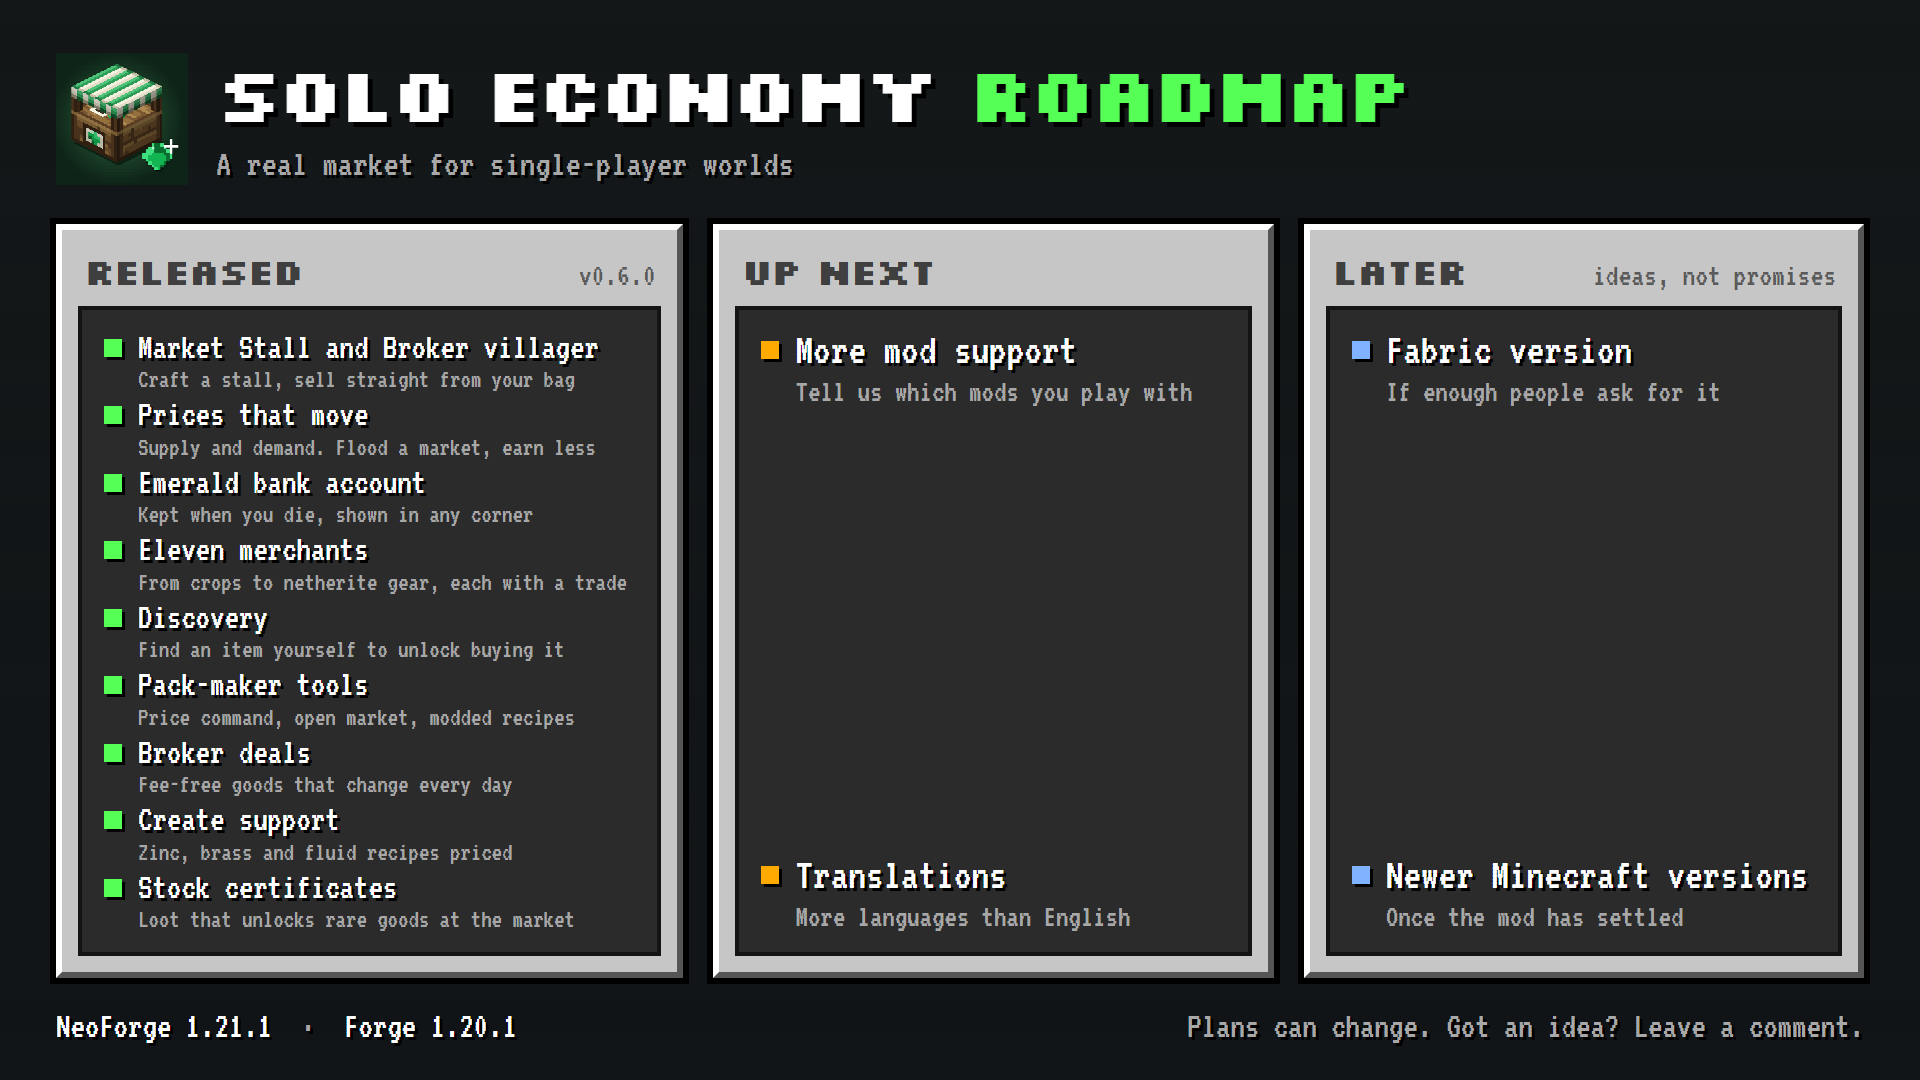
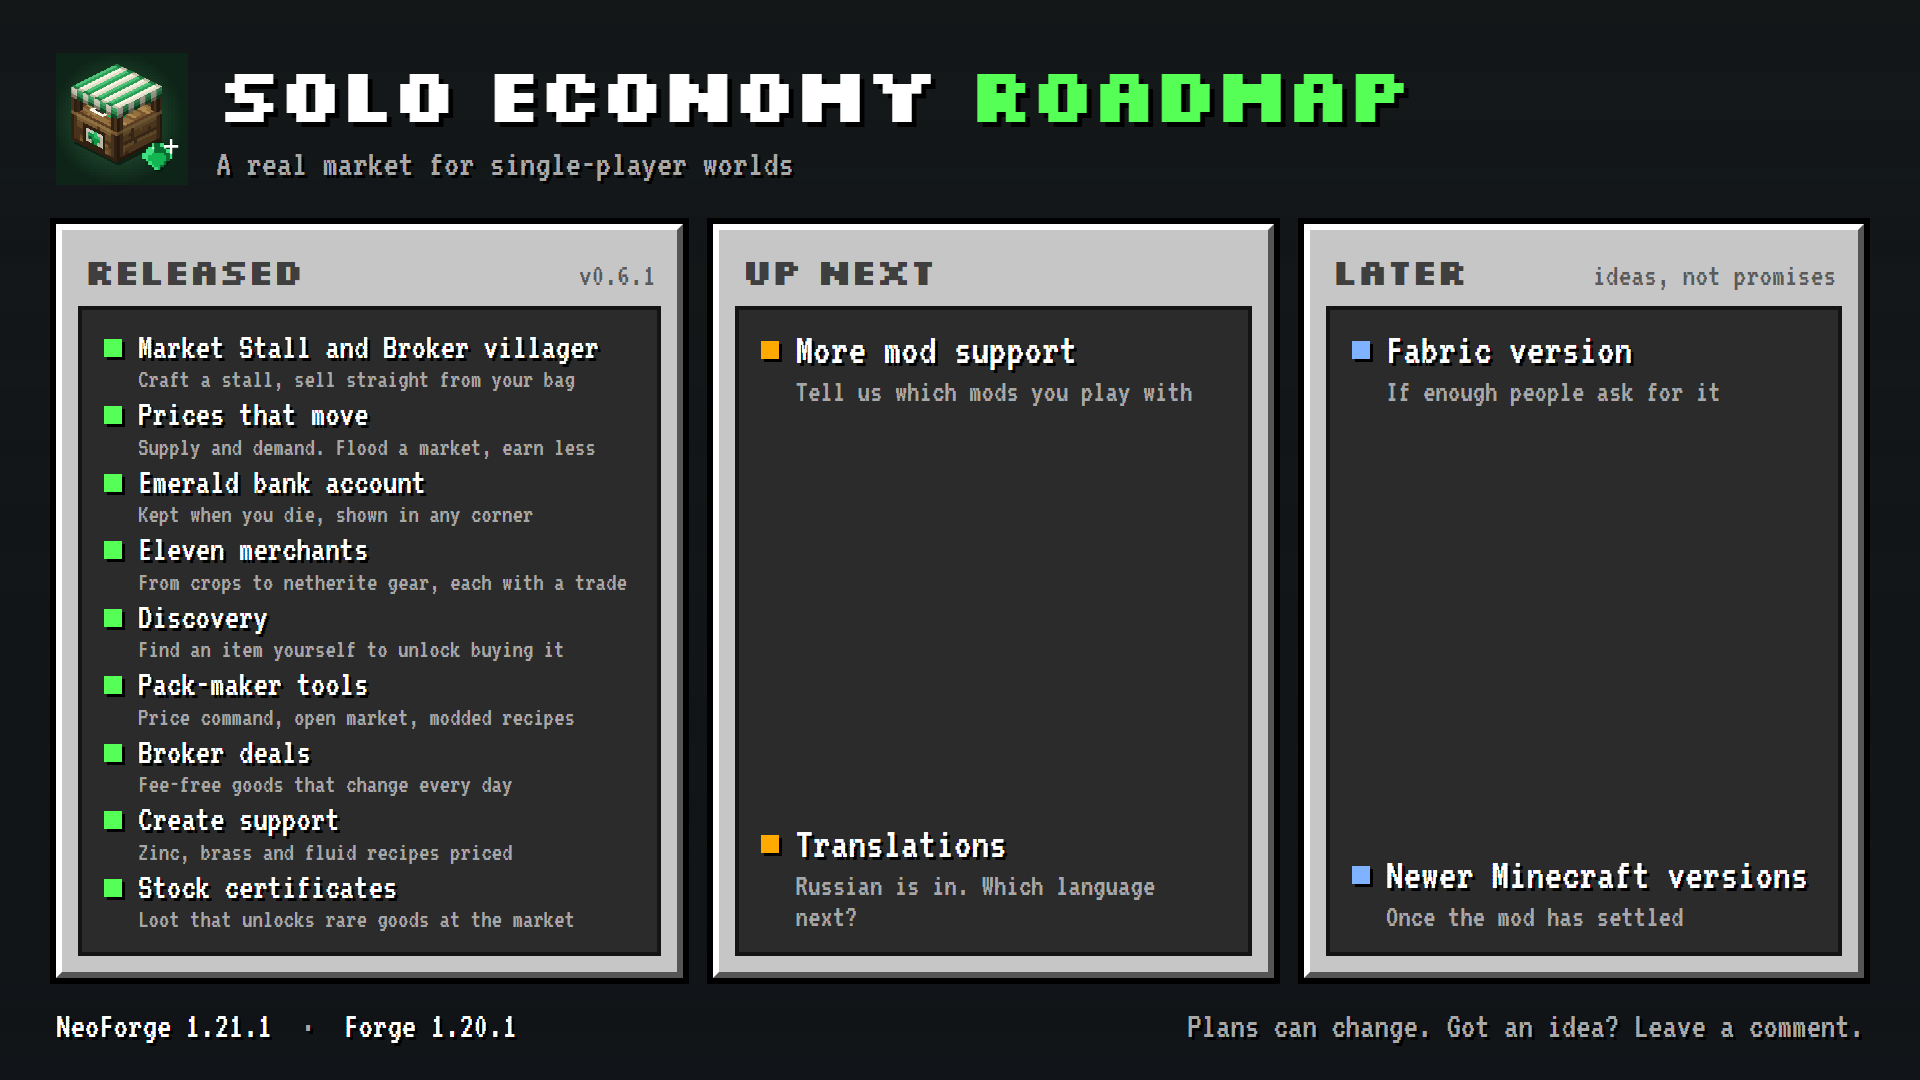
Russian translation (0.6.1)
- ru_ru.json covering every string, with names shortened where the
  market screen clipped them
- Roadmap and CurseForge description list the languages

Changed region(s): [[0.375, 0.7639, 0.5938, 0.8556]]

diff --git a/curseforge/roadmap.html b/curseforge/roadmap.html
@@ -97,7 +97,7 @@
 
   <main>
     <section class="panel done">
-      <h2>Released <small>v0.6.0</small></h2>
+      <h2>Released <small>v0.6.1</small></h2>
       <div class="box">
         <div class="item"><i></i><div><b>Market Stall and Broker villager</b><p>Craft a stall, sell straight from your bag</p></div></div>
         <div class="item"><i></i><div><b>Prices that move</b><p>Supply and demand. Flood a market, earn less</p></div></div>
@@ -115,7 +115,7 @@
       <h2>Up next</h2>
       <div class="box">
         <div class="item"><i></i><div><b>More mod support</b><p>Tell us which mods you play with</p></div></div>
-        <div class="item"><i></i><div><b>Translations</b><p>More languages than English</p></div></div>
+        <div class="item"><i></i><div><b>Translations</b><p>Russian is in. Which language next?</p></div></div>
       </div>
     </section>
 

diff --git a/CHANGELOG.md b/CHANGELOG.md
@@ -1,3 +1,15 @@
+# Solo Economy 0.6.1
+
+**Minecraft 1.21.1 · NeoForge (built on 21.1.209) · Java 21**
+
+## Russian
+
+Solo Economy now speaks Russian. Pick Русский under Options → Language and the whole mod follows: the market, the bank, every merchant, the commands, stock certificates and the settings page.
+
+A few names were shortened to fit the market screen. If any wording reads oddly, leave a comment with the line and a better one.
+
+---
+
 # Solo Economy 0.6.0
 
 **Minecraft 1.21.1 · NeoForge (built on 21.1.209) · Java 21**

diff --git a/curseforge/description.md b/curseforge/description.md
@@ -121,6 +121,9 @@ This is an early release.
 
 ---
 
+## Languages
+English and Russian.
+
 ## Requirements
 
 - Minecraft **1.21.1** on **NeoForge** (built on 21.1.209), or
